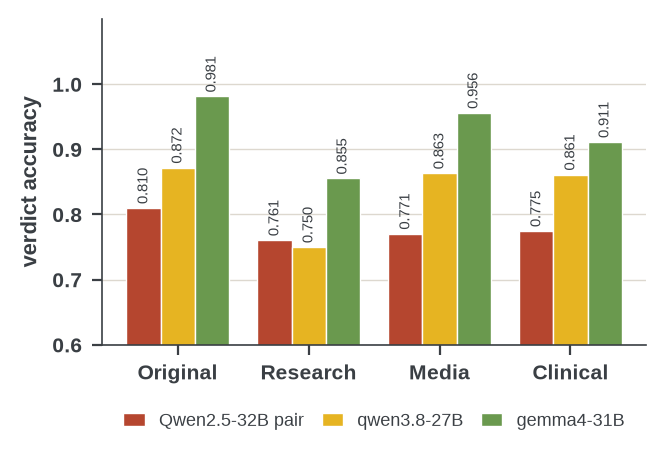
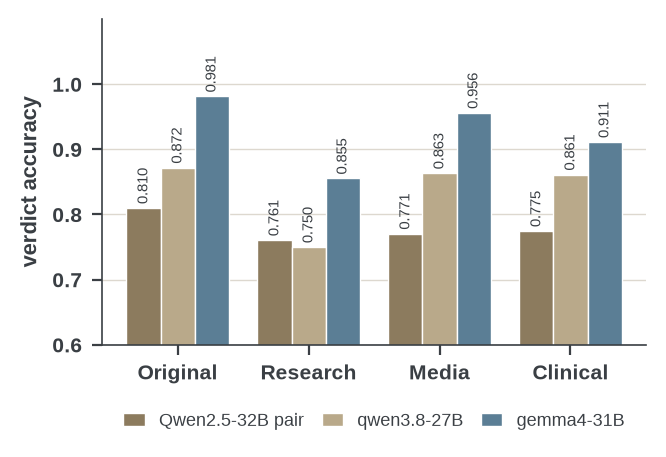
Bibliography completed (author lists verified; MedTempo cited via CRAFT; model and statistics references added and cited); abstention table headers spelled out; register figure in the muted coast palette

diff --git a/docs/draft/body.tex b/docs/draft/body.tex
@@ -131,10 +131,11 @@ the order of events within a record. We run two of them, EHRAgent
 scores one query per question with an abstention option, and EHRAgent
 \cite{shi2024ehragent} solves EHR questions with a code-writing agent and
 error-driven retries; our Straight-to-SQL baselines (\S\ref{sec:baselines})
-follow the EHRSQL protocol over our schema. The CRAFT/TIMER line
-\cite{craft2026,timer2025} extracts clinical timelines from narratives, and
-MedTempo \cite{medtempo2026} is the expert-annotated corpus of such timelines
-we build on: a data source, not a competitor. We start where extraction ends.
+follow the EHRSQL protocol over our schema. TIMER \cite{timer2025} and CRAFT
+\cite{craft2026} extract and refine clinical timelines from narratives, and
+MedTempo, the corpus CRAFT introduced, is the expert-annotated set of such
+timelines we build on: a data source, not a competitor. We start where
+extraction ends.
 
 \paragraph{Positioning.} Table~\ref{tab:related-concise} compares the closest
 work. A plan-then-execute loop with a deterministic statistics layer (LATCH)
@@ -249,7 +250,7 @@ claim-type \emph{mapping} --- which rule and which test go with which wording
 \subsection{Source corpus}
 \label{sec:corpus}
 
-MedTempo~\cite{medtempo2026} is a corpus of 3{,}166 VAERS adverse-event
+MedTempo~\cite{craft2026} is a corpus of 3{,}166 VAERS adverse-event
 reports for three COVID-19 vaccines, annotated with a \emph{leveled order}: a
 single totally ordered chain of stages in which each stage holds the
 MedDRA-coded events reported at that point of the clinical course (1{,}164
@@ -317,10 +318,11 @@ reports and events on the exact middle stage.
 them by claim shape: a one-sided exact binomial against $p_0$ for majority,
 bar and data-derived nulls; modal-versus-runner-up, an exact binomial of the
 named cell against its strongest competitor, for argmax claims; Fisher's
-exact test for two-arm and two-cohort contrasts. No $\chi^2$ approximation
-appears; the sole gate is a minimum denominator of 10, applied to both arms
-where two exist. Each instance releases both one-sided $p$-values, the
-Wilson interval and Cohen's $h$ against the null actually used.
+exact test \cite{fisher1935design} for two-arm and two-cohort contrasts. No
+$\chi^2$ approximation appears; the sole gate is a minimum denominator of 10,
+applied to both arms where two exist. Each instance releases both one-sided
+$p$-values, the Wilson interval \cite{wilson1927} and Cohen's $h$
+\cite{cohen1988} against the null actually used.
 
 \begin{table}[t]
 \centering
@@ -379,7 +381,7 @@ together; report groups ship two classes of 200.
 \label{sec:screens}
 
 No group ships on plausibility. Each is screened against a permutation null
-matched to its claim shape at 2{,}000 rounds: a \emph{level shuffle}
+\cite{good2005permutation} matched to its claim shape at 2{,}000 rounds: a \emph{level shuffle}
 (term-to-stage assignment permuted within each report, preserving report size,
 stage-size multiset, term frequencies and co-occurrence) for order, position
 and proximity groups; a degree-preserving \emph{edge swap} for association; a
@@ -640,11 +642,13 @@ case study reruns it in the three other registers); and the 180-claim
 report case study, kept apart because every capable system reads a single
 report at 0.98--1.00. Every system is run with each of five models in every
 model slot: the 2024 open pair Qwen2.5-32B-Instruct (planning) and
-Qwen2.5-Coder-32B (SQL); the 2026 open models qwen3.8-27B and gemma4-31B, one
+Qwen2.5-Coder-32B (SQL) \cite{qwen2025qwen25}; the 2026 open models
+qwen3.8-27B \cite{qwen2026qwen38} and gemma4-31B \cite{gemma2026gemma4}, one
 model for both stages, thinking off; and the frontier models Claude Opus~5.5
-and GPT-5.6. Open models run fully resident on one RTX A5000 with an 8k
+\cite{anthropic2026opus55} and GPT-5.6 \cite{openai2026gpt56}. Open models run fully resident on one RTX A5000 with an 8k
 context, frontier models over their APIs with prompt caching. Verdict
-accuracies carry 95\% bootstrap intervals over instances (1{,}000 resamples),
+accuracies carry 95\% bootstrap intervals \cite{efron1993bootstrap} over
+instances (1{,}000 resamples),
 about $\pm 0.02$ on the test set and $\pm 0.01$ above 0.98. Per-record cost
 and latency are in Appendix~\ref{app:cost}; a frontier column on the test set
 cost \$80--89 at list price, and the open models answer a claim in 10--14
@@ -1060,9 +1064,9 @@ run; the other registers rerun the same 1{,}500 claims.}
 \renewcommand{\arraystretch}{1.1}
 \begin{tabular}{@{}lrrrrrrrrrrrr@{}}
 \toprule
- & \multicolumn{4}{c}{gold \emph{insufficient} (505): decided anyway} & & \multicolumn{6}{c}{gold decisive (995): abstained} & \\
-\cmidrule(lr){2-5}\cmidrule(lr){7-12}
-test set & all & not-loc. & sparse & underp. & sub-type right & all & query failed & none found & too few & wrong set & gold set & no answer \\
+ & \multicolumn{4}{c}{overclaim: gold \emph{insufficient} (505) answered decisively} & abstentions & \multicolumn{6}{c}{underclaim: gold decisive (995) answered \emph{insufficient}, by cause} & no plan \\
+\cmidrule(lr){2-5}\cmidrule(lr){6-6}\cmidrule(lr){7-12}\cmidrule(lr){13-13}
+test set & all & \shortstack[c]{gold\\not-locatable} & \shortstack[c]{gold\\sparse} & \shortstack[c]{gold\\underpowered} & \shortstack[c]{with the right\\sub-type} & all & \shortstack[c]{query\\rejected} & \shortstack[c]{denominator\\empty} & \shortstack[c]{below\\the floor} & \shortstack[c]{wrong\\denominator} & \shortstack[c]{gold\\denominator} & \shortstack[c]{(no\\answer)} \\
 \midrule
 \multicolumn{13}{@{}l}{\textit{B: Straight-to-SQL, codebook given}} \\
 \quad Qwen2.5-32B pair & 0.234 & 0.131 & 0.134 & 0.430 & 0.791 & 0.388 & 0.017 & 0.026 & 0.108 & 0.204 & 0.033 & 0.000 \\

diff --git a/scripts/families_candidates.py b/scripts/families_candidates.py
@@ -255,3 +255,12 @@ if __name__ == "__main__" and "--radar2" in sys.argv:
     O, C, n = load()
     for name, cols in PALETTES_STRONG.items():
         c4(O, n, name, cols)
+
+
+# muted three-model combinations for the register bars (user 2026-10-21: meadow too bright)
+PALETTES_MUTED = {
+    "muted_meadow": ["#9E4A3B", "#C2A24A", "#6E8F5A"],   # desaturated poppy, goldenrod, grass
+    "avocado":      ["#8B6B4A", "#C9B38E", "#5C6B3A"],   # brown, tan, olive
+    "coast":        ["#8C7B5E", "#B9A98A", "#5B7E95"],   # drift, dune, slate
+    "slate_rust":   ["#A0522D", "#D4B483", "#4F6B75"],   # rust, wheat, slate blue
+}

diff --git a/scripts/paper_figures.py b/scripts/paper_figures.py
@@ -262,7 +262,7 @@ def fig_registers():
     bar per open model, ART + verifier only; Original from the main test runs, the other registers from
     the test_*_registers_dprime_verify2 runs."""
     import families_candidates as FC  # noqa: E402
-    cols = FC.PALETTES_STRONG["meadow"]
+    cols = FC.PALETTES_MUTED["coast"]  # muted set (user 2026-10-21: meadow too bright here)
     models = [("q25pair", "Qwen2.5-32B pair"), ("qwen38_27b", "qwen3.8-27B"), ("gemma4_31b", "gemma4-31B")]
     regs = ["Original", "Research", "Media", "Clinical"]
     fig, ax = plt.subplots(figsize=(3.4, 2.4))
